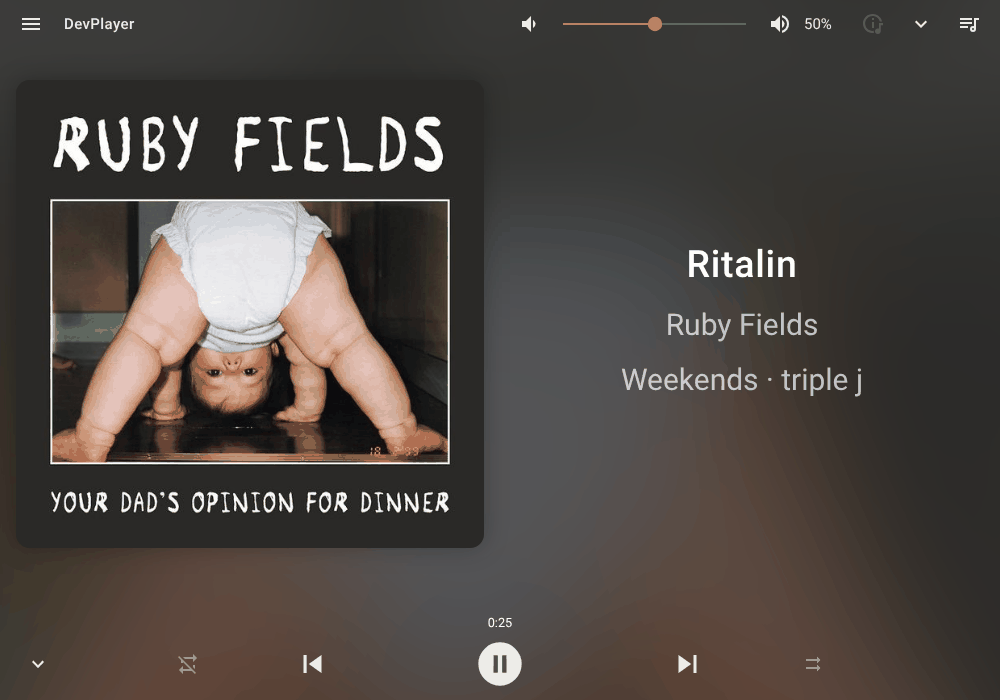
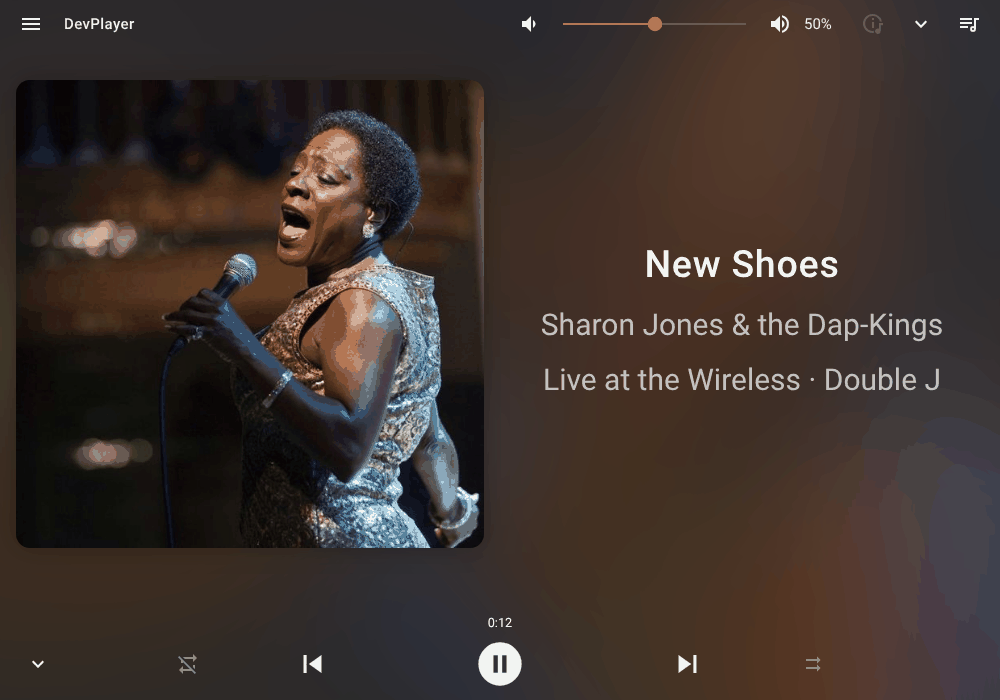
[R2] Screenshots from main with D8 merged; alt texts

diff --git a/README.md b/README.md
@@ -198,7 +198,7 @@ date and title ("Fri 23 Oct – Mental health and the manosphere"). Long lists e
 **More episodes…**. Programs use ABC's current titles, such as "Radio National Breakfast" and
 "If You're Listening".
 
-![A program's page in the Default web interface: All In the Mind's description, presenter, the Follow row, then its episodes, newest first, each with its date](docs/images/default-program-episodes.png)
+![A program's page in the Default web interface: All In the Mind's presenter, network and Follow row, then its episodes, newest first, each named with its date and title](docs/images/default-program-episodes.png)
 
 An episode plays from its row. Open it for:
 
@@ -225,7 +225,7 @@ Controller players and some LMS apps offer in their Search menu: it lists an **A
 with **Results for '*your words*'** and the same **Programs (N)** and **Episodes (N)** lists.
 Material's own search box doesn't include ABC listen; use **ABC listen → Search** there.
 
-![Search results for "science" in the Default web interface: Programs (20) and Episodes (40)](docs/images/default-search-results.png)
+![Search results for "science" in the Default web interface: the Programs (20) list, starting with The Chase — Science on the Run, Science Friction and The Science Show](docs/images/default-search-results.png)
 
 ### My ABC listen
 
@@ -279,7 +279,7 @@ the cover art, updated at every song change (the plugin checks ABC's song data e
 2 minutes, and at the end of each song). Between songs, Now Playing shows the program.
 **Song Info** also has **Recently played**, the last ten songs with their times.
 
-![Now Playing in the Material web interface while triple j plays: the song title (Ritalin), the artist (Ruby Fields), the program and station (Weekends · triple j) and the album cover](docs/images/material-now-playing.png)
+![Now Playing in the Material web interface while Double J plays: the song title (New Shoes), the artist (Sharon Jones & the Dap-Kings), the program and station (Live at the Wireless · Double J) and the song's artwork](docs/images/material-now-playing.png)
 
 **Episodes** show the episode's title, the program, the episode's artwork and its duration, and
 can be sought. **Song Info** for an episode has **Episode notes**, **More from** *program*, its
